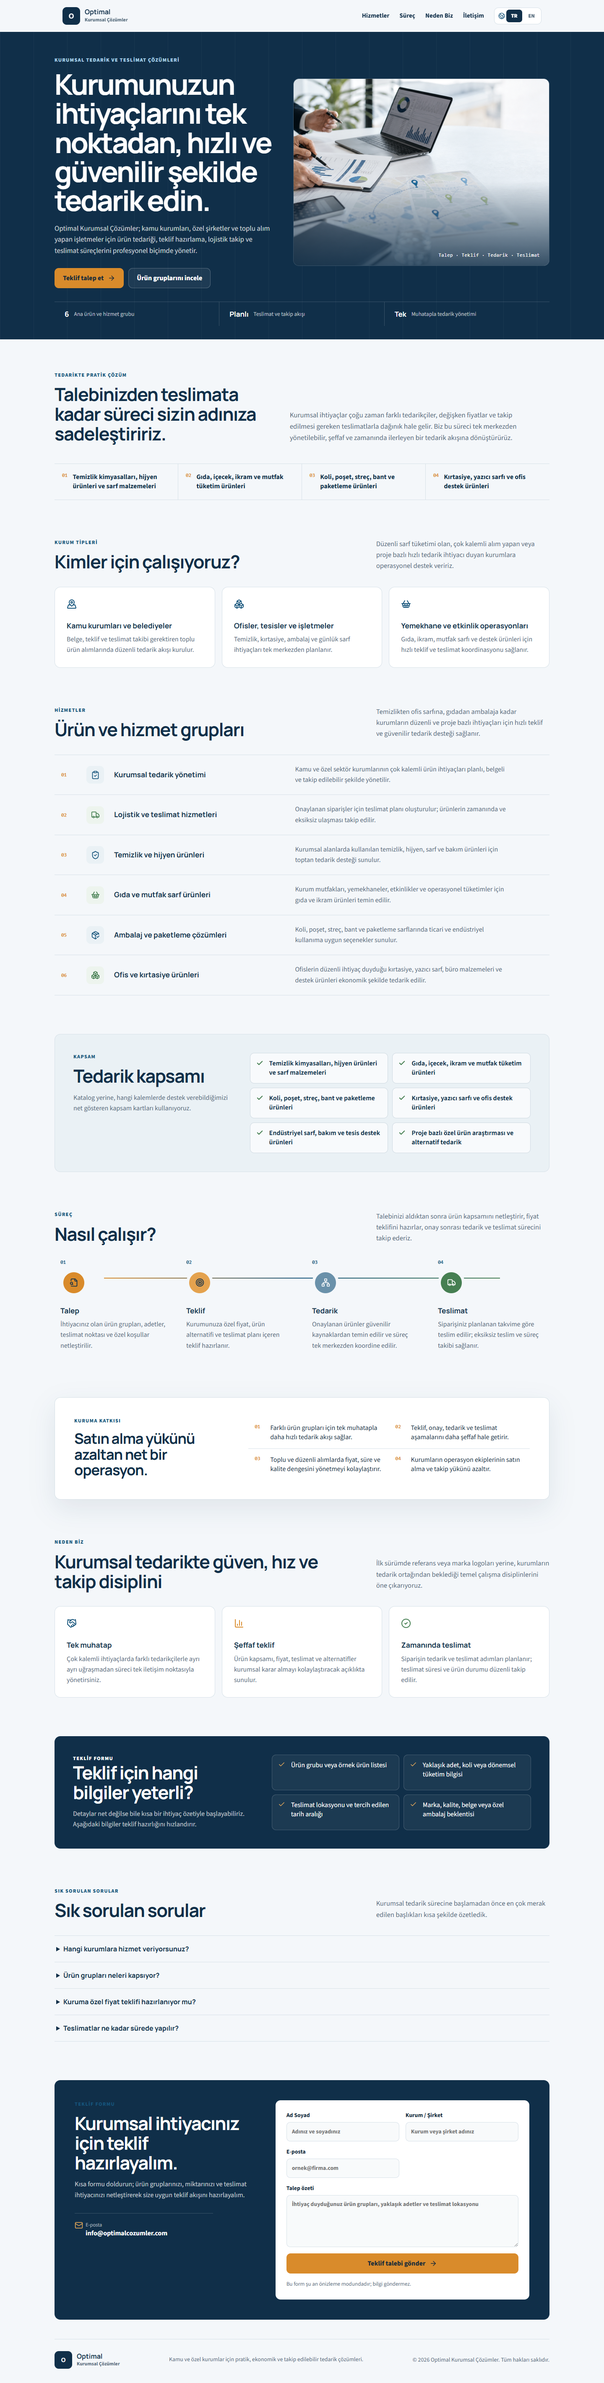
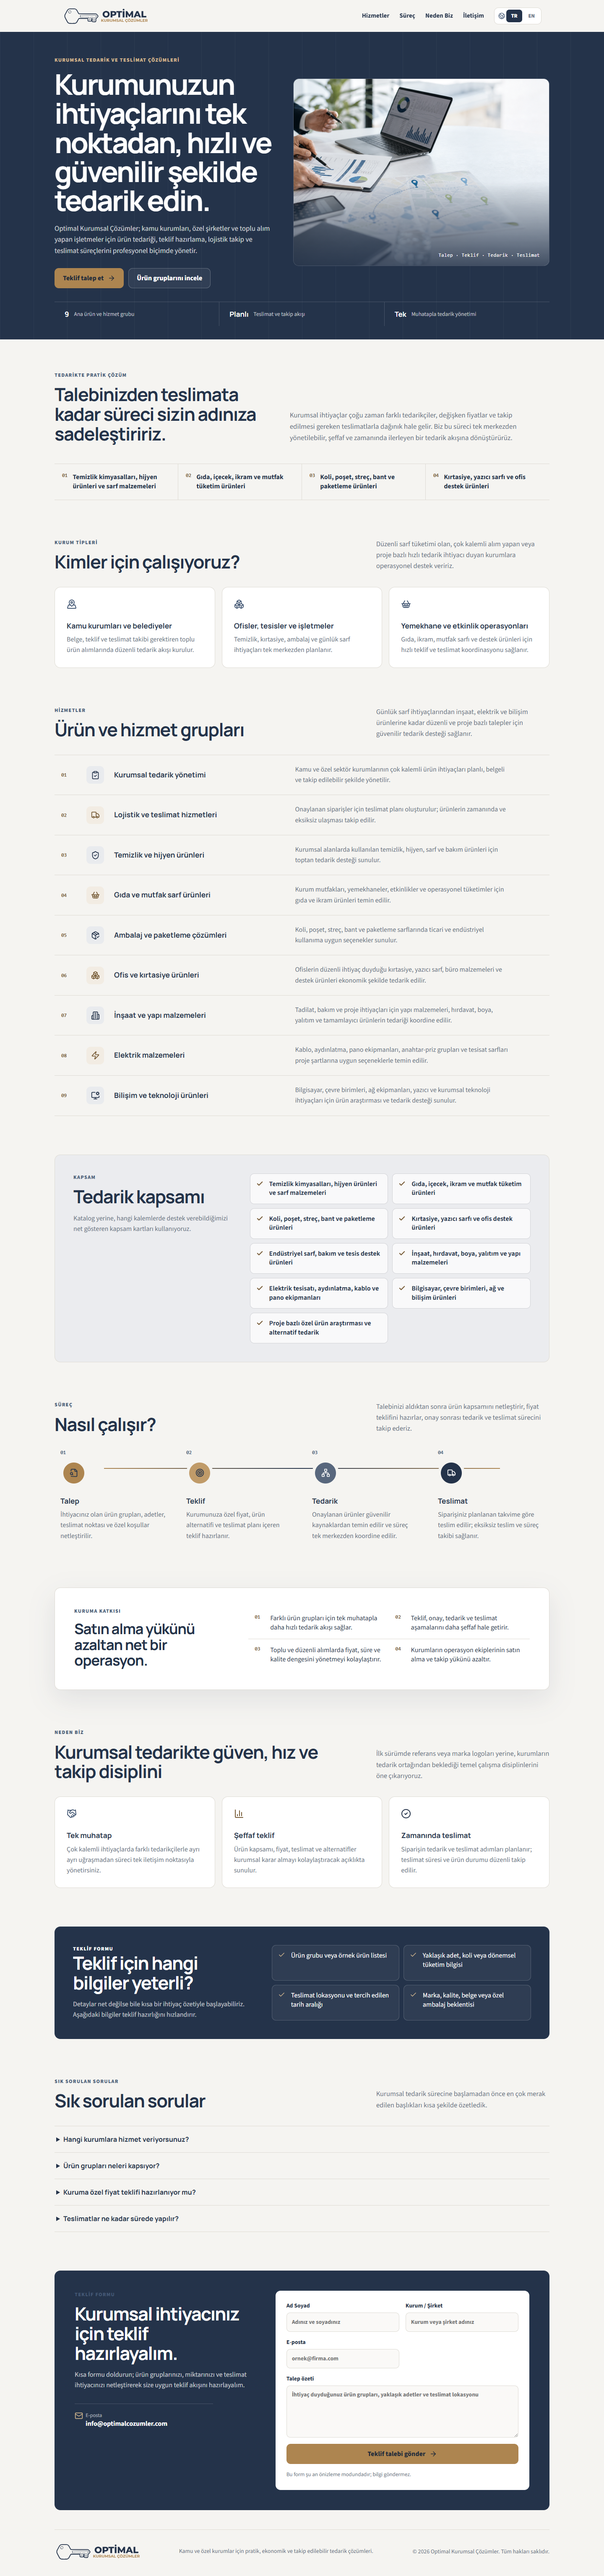
feat: initialize landing page with bilingual support, responsive layout, and scroll-triggered animations

Changed region(s): [[0.0, 0.0, 1.0, 0.997], [0.3125, 0.5297, 0.375, 0.592]]

diff --git a/src/styles.css b/src/styles.css
@@ -3,21 +3,22 @@
 
 :root {
   font-family: "Source Sans 3 Variable", sans-serif;
-  color: #172a3b;
-  background: #f4f7fa;
+  color: #263348;
+  background: #f5f4f1;
   font-synthesis: none;
   text-rendering: optimizeLegibility;
-  --navy: #102f49;
-  --blue: #15547b;
-  --amber: #d98b2b;
-  --green: #467f52;
-  --ink: #172a3b;
-  --muted: #526879;
-  --ground: #f4f7fa;
+  --navy: #24334a;
+  --blue: #465a76;
+  --amber: #ad8550;
+  --amber-dark: #765a35;
+  --green: #806b4d;
+  --ink: #263348;
+  --muted: #667083;
+  --ground: #f5f4f1;
   --surface: #ffffff;
-  --line: #d7e1e8;
+  --line: #dedbd4;
   --line-dark: rgba(255, 255, 255, 0.17);
-  --shadow: 0 22px 60px rgba(16, 47, 73, 0.09);
+  --shadow: 0 22px 60px rgba(36, 51, 74, 0.1);
   --radius: 14px;
   --page: min(1180px, calc(100% - 40px));
 }
@@ -30,12 +31,12 @@ button, a { -webkit-tap-highlight-color: transparent; }
 a { color: inherit; text-decoration: none; }
 img { display: block; max-width: 100%; }
 h1, h2, h3, p { margin-top: 0; }
-h1, h2, h3, .brand { font-family: "Manrope Variable", sans-serif; }
+h1, h2, h3 { font-family: "Manrope Variable", sans-serif; }
 h1 { margin-bottom: 20px; font-size: clamp(2.25rem, 4.7vw, 4.75rem); line-height: 1.02; letter-spacing: -0.045em; }
 h2 { margin-bottom: 16px; color: var(--navy); font-size: clamp(1.9rem, 3vw, 3.2rem); line-height: 1.08; letter-spacing: -0.035em; }
 h3 { margin-bottom: 9px; color: var(--navy); font-size: 1.08rem; line-height: 1.3; }
 p { line-height: 1.58; }
-:focus-visible { outline: 3px solid rgba(217, 139, 43, 0.7); outline-offset: 3px; }
+:focus-visible { outline: 3px solid rgba(173, 133, 80, 0.72); outline-offset: 3px; }
 #services, #process, #principles, #contact { scroll-margin-top: 104px; }
 
 .theme-flow { min-height: 100vh; }
@@ -44,15 +45,12 @@ p { line-height: 1.58; }
   display: flex; align-items: center; justify-content: space-between; gap: 24px;
   width: var(--page); min-height: 76px; padding: 12px 18px;
   border: 1px solid transparent; border-top: 0; border-radius: 0 0 var(--radius) var(--radius);
-  background: rgba(244, 247, 250, 0.96); transform: translateX(-50%);
+  background: rgba(245, 244, 241, 0.96); transform: translateX(-50%);
   transition: background 180ms ease, box-shadow 180ms ease, border-color 180ms ease;
 }
-.site-header.is-scrolled { border-color: rgba(16, 47, 73, 0.13); background: rgba(244, 247, 250, 0.985); box-shadow: 0 12px 32px rgba(16, 47, 73, 0.12); }
-.brand { display: inline-flex; align-items: center; gap: 11px; min-width: 0; }
-.brand-mark { display: grid; place-items: center; width: 42px; height: 42px; flex: 0 0 auto; border-radius: 10px; background: var(--navy); color: #fff; font-weight: 850; }
-.brand strong, .brand small { display: block; line-height: 1.08; }
-.brand strong { color: var(--navy); font-size: 1rem; }
-.brand small { margin-top: 4px; color: var(--muted); font-family: "Source Sans 3 Variable", sans-serif; font-size: 0.74rem; font-weight: 700; }
+.site-header.is-scrolled { border-color: rgba(36, 51, 74, 0.14); background: rgba(245, 244, 241, 0.985); box-shadow: 0 12px 32px rgba(36, 51, 74, 0.13); }
+.brand { display: inline-flex; align-items: center; min-width: 0; }
+.brand-logo { display: block; width: auto; height: 48px; }
 .header-actions, .site-nav, .language-switch { display: flex; align-items: center; }
 .header-actions { gap: 24px; }
 .site-nav { gap: 24px; color: var(--navy); font-size: 0.94rem; font-weight: 700; }
@@ -76,16 +74,16 @@ p { line-height: 1.58; }
 .hero-copy { position: relative; z-index: 2; grid-area: copy; max-width: 610px; }
 .hero-copy h1 { max-width: 12ch; color: #fff; }
 .eyebrow { margin-bottom: 13px; color: var(--blue); font-size: .77rem; font-weight: 850; letter-spacing: .1em; text-transform: uppercase; }
-.hero-copy .eyebrow { color: #a9d0e8; }
+.hero-copy .eyebrow { color: #d5b88f; }
 .lead { max-width: 600px; margin-bottom: 27px; color: rgba(255,255,255,.76); font-size: 1.06rem; }
 .hero-buttons { display: flex; flex-wrap: wrap; gap: 11px; }
 .button { display: inline-flex; align-items: center; justify-content: center; gap: 10px; min-height: 48px; padding: 0 19px; border: 1px solid transparent; border-radius: 10px; font-weight: 800; transition: transform 160ms ease, background 160ms ease; }
 .button:hover { transform: translateY(-1px); }
-.button.primary { background: var(--amber); color: #182a39; }
-.button.primary:hover { background: #e59a3e; }
+.button.primary { background: var(--amber); color: #1f2939; }
+.button.primary:hover { background: #bc9560; }
 .button.secondary { border-color: rgba(255,255,255,.23); background: rgba(255,255,255,.06); color: #fff; }
 .hero-media { position: relative; z-index: 1; grid-area: media; min-height: 445px; margin: 0; overflow: hidden; border: 1px solid var(--line-dark); border-radius: var(--radius); }
-.hero-media::after { position: absolute; inset: 0; background: linear-gradient(180deg, transparent 55%, rgba(16,47,73,.82)); content: ""; }
+.hero-media::after { position: absolute; inset: 0; background: linear-gradient(180deg, transparent 55%, rgba(36,51,74,.84)); content: ""; }
 .hero-media img { width: 100%; height: 445px; object-fit: cover; filter: saturate(.78) contrast(1.03); }
 .hero-media figcaption { position: absolute; right: 22px; bottom: 18px; z-index: 2; color: #fff; font-family: ui-monospace, SFMono-Regular, Consolas, monospace; font-size: .72rem; letter-spacing: .05em; }
 .hero-stats { position: relative; z-index: 2; grid-area: stats; display: grid; grid-template-columns: repeat(3, 1fr); border-top: 1px solid var(--line-dark); }
@@ -101,7 +99,7 @@ p { line-height: 1.58; }
 .supply-strip { display: grid; grid-template-columns: repeat(4, 1fr); margin-top: 48px; border-top: 1px solid var(--line); border-bottom: 1px solid var(--line); }
 .supply-strip article { display: grid; grid-template-columns: auto 1fr; gap: 12px; min-width: 0; padding: 20px 18px; border-right: 1px solid var(--line); }
 .supply-strip article:last-child { border-right: 0; }
-.supply-strip span, .card-index, .step-number, .benefit-list span { color: var(--amber); font-family: ui-monospace, SFMono-Regular, Consolas, monospace; font-size: .75rem; font-weight: 800; }
+.supply-strip span, .card-index, .step-number, .benefit-list span { color: var(--amber-dark); font-family: ui-monospace, SFMono-Regular, Consolas, monospace; font-size: .75rem; font-weight: 800; }
 .supply-strip p { margin: 0; color: var(--navy); font-weight: 700; line-height: 1.38; }
 .section { padding-top: 92px; }
 .section-heading { display: grid; grid-template-columns: minmax(0,1fr) minmax(280px,.58fr); gap: 54px; align-items: end; margin-bottom: 36px; }
@@ -115,38 +113,38 @@ p { line-height: 1.58; }
 .feature-card { display: grid; grid-template-columns: 42px 48px minmax(200px,.7fr) minmax(280px,1fr); gap: 18px; align-items: center; padding: 22px 16px; border-bottom: 1px solid var(--line); }
 .feature-card h3, .feature-card p { margin: 0; }
 .feature-card p { max-width: 65ch; color: var(--muted); }
-.icon-box { display: grid; place-items: center; width: 42px; height: 42px; border-radius: 10px; background: #eaf1f5; color: var(--blue); }
-.feature-card:nth-child(even) .icon-box { background: #edf4ee; color: var(--green); }
+.icon-box { display: grid; place-items: center; width: 42px; height: 42px; border-radius: 10px; background: #e9ebee; color: var(--navy); }
+.feature-card:nth-child(even) .icon-box { background: #f2ece3; color: var(--amber-dark); }
 .scope-panel, .benefits-band, .quote-panel, .contact-section { margin-top: 92px; border-radius: var(--radius); }
-.scope-panel { display: grid; grid-template-columns: .72fr 1.28fr; gap: 44px; padding: 44px; border: 1px solid var(--line); background: #eaf1f5; }
+.scope-panel { display: grid; grid-template-columns: .72fr 1.28fr; gap: 44px; padding: 44px; border: 1px solid var(--line); background: #ebecef; }
 .scope-copy p:last-child { margin-bottom: 0; color: var(--muted); }
 .scope-grid { display: grid; grid-template-columns: repeat(2, 1fr); gap: 10px; }
-.scope-item { display: grid; grid-template-columns: 22px 1fr; gap: 9px; align-items: start; padding: 14px; border: 1px solid #cfdae2; border-radius: 10px; background: rgba(255,255,255,.68); color: var(--navy); font-weight: 650; line-height: 1.35; }
-.scope-item svg { margin-top: 1px; color: var(--green); }
+.scope-item { display: grid; grid-template-columns: 22px 1fr; gap: 9px; align-items: start; padding: 14px; border: 1px solid #d2d3d7; border-radius: 10px; background: rgba(255,255,255,.7); color: var(--navy); font-weight: 650; line-height: 1.35; }
+.scope-item svg { margin-top: 1px; color: var(--amber-dark); }
 
 .process-section { position: relative; }
 .process-list { position: relative; display: grid; grid-template-columns: repeat(4, 1fr); gap: 20px; }
-.process-list::before { position: absolute; top: 44px; right: 10%; left: 10%; height: 2px; background: linear-gradient(90deg, var(--amber), var(--blue), var(--green)); content: ""; }
+.process-list::before { position: absolute; top: 44px; right: 10%; left: 10%; height: 2px; background: linear-gradient(90deg, var(--amber), var(--navy), var(--amber)); content: ""; }
 .process-item { position: relative; z-index: 1; padding: 0 14px 18px; }
 .step-number { display: block; margin-bottom: 10px; color: var(--blue); }
 .process-node { display: grid; place-items: center; width: 50px; height: 50px; margin-bottom: 24px; border: 7px solid var(--ground); border-radius: 50%; background: var(--amber); color: var(--navy); box-sizing: content-box; }
-.process-item:nth-child(2) .process-node { background: #e4a24e; }
-.process-item:nth-child(3) .process-node { background: #6a91aa; color: #fff; }
-.process-item:nth-child(4) .process-node { background: var(--green); color: #fff; }
+.process-item:nth-child(2) .process-node { background: #c09b69; }
+.process-item:nth-child(3) .process-node { background: #58677d; color: #fff; }
+.process-item:nth-child(4) .process-node { background: var(--navy); color: #fff; }
 .process-item p { margin: 0; color: var(--muted); }
 .benefits-band { display: grid; grid-template-columns: .7fr 1.3fr; gap: 54px; padding: 46px; background: #fff; border: 1px solid var(--line); box-shadow: var(--shadow); }
 .benefits-band h2 { margin-bottom: 0; font-size: clamp(1.7rem,2.4vw,2.65rem); }
 .benefit-list { display: grid; grid-template-columns: repeat(2,1fr); gap: 0; margin: 0; padding: 0; list-style: none; }
 .benefit-list li { display: grid; grid-template-columns: 28px 1fr; gap: 9px; padding: 15px; border-top: 1px solid var(--line); color: var(--ink); line-height: 1.4; }
 .benefit-list li:nth-child(-n+2) { border-top: 0; }
-.principles-grid .principle-card:nth-child(2) svg { color: var(--amber); }
-.principles-grid .principle-card:nth-child(3) svg { color: var(--green); }
+.principles-grid .principle-card:nth-child(2) svg { color: var(--amber-dark); }
+.principles-grid .principle-card:nth-child(3) svg { color: var(--navy); }
 .quote-panel { display: grid; grid-template-columns: .82fr 1.18fr; gap: 44px; padding: 44px; background: var(--navy); color: #fff; }
 .quote-panel h2, .quote-panel .eyebrow { color: #fff; }
 .quote-panel p { margin-bottom: 0; color: rgba(255,255,255,.7); }
 .quote-list { display: grid; grid-template-columns: repeat(2,1fr); gap: 10px; margin: 0; padding: 0; list-style: none; }
 .quote-list li { display: grid; grid-template-columns: 22px 1fr; gap: 9px; padding: 14px; border: 1px solid var(--line-dark); border-radius: 10px; background: rgba(255,255,255,.05); line-height: 1.35; }
-.quote-list svg { color: #e9aa59; }
+.quote-list svg { color: #d5b88f; }
 .faq-list { border-top: 1px solid var(--line); }
 .faq-item { border-bottom: 1px solid var(--line); background: transparent; }
 .faq-item summary { padding: 20px 42px 20px 4px; color: var(--navy); font-family: "Manrope Variable",sans-serif; font-weight: 750; cursor: pointer; }
@@ -155,16 +153,16 @@ p { line-height: 1.58; }
 .contact-copy h2 { color: #fff; }
 .contact-copy > p:not(.eyebrow) { max-width: 52ch; color: rgba(255,255,255,.72); }
 .contact-detail { display: grid; grid-template-columns: 26px 1fr; margin-top: 30px; max-width: 330px; padding-top: 18px; border-top: 1px solid var(--line-dark); }
-.contact-detail svg { grid-row: 1 / 3; color: #e9aa59; }
+.contact-detail svg { grid-row: 1 / 3; color: #d5b88f; }
 .contact-detail span { color: rgba(255,255,255,.58); font-size: .78rem; }
 .contact-detail strong { overflow-wrap: anywhere; }
 .contact-form { display: grid; grid-template-columns: repeat(2,1fr); gap: 15px; padding: 26px; border-radius: 12px; background: #fff; color: var(--ink); }
 .contact-form label { display: grid; gap: 6px; font-size: .86rem; font-weight: 750; }
 .contact-form label:nth-of-type(4), .form-button, .form-note { grid-column: 1 / -1; }
-.contact-form input, .contact-form textarea { width: 100%; border: 1px solid var(--line); border-radius: 9px; background: #f8fafb; color: var(--ink); padding: 11px 12px; }
+.contact-form input, .contact-form textarea { width: 100%; border: 1px solid var(--line); border-radius: 9px; background: #faf9f7; color: var(--ink); padding: 11px 12px; }
 .contact-form input { min-height: 46px; }
 .contact-form textarea { min-height: 116px; resize: vertical; }
-.contact-form input:focus, .contact-form textarea:focus { border-color: var(--blue); outline: 3px solid rgba(21,84,123,.12); }
+.contact-form input:focus, .contact-form textarea:focus { border-color: var(--navy); outline: 3px solid rgba(36,51,74,.12); }
 .form-button { border: 0; cursor: pointer; }
 .form-note { margin: 0; color: var(--muted); font-size: .82rem; }
 .form-note.is-success { color: var(--green); font-weight: 750; }
@@ -228,7 +226,7 @@ p { line-height: 1.58; }
   :root { --page: calc(100% - 24px); }
   h1 { font-size: clamp(2.15rem,11vw,3.25rem); }
   h2 { font-size: clamp(1.8rem,9vw,2.45rem); }
-  .brand small { display: none; }
+  .brand-logo { height: 42px; }
   .hero-section { padding-top: 42px; }
   .hero-copy h1 { max-width: 13ch; font-size: clamp(2.2rem,11.5vw,3.2rem); overflow-wrap: break-word; }
   .hero-buttons { display: grid; }

diff --git a/src/content.ts b/src/content.ts
@@ -1,18 +1,21 @@
 import {
   BarChart3,
   Boxes,
+  Building2,
   CheckCircle2,
   ClipboardCheck,
   FileSearch,
   Handshake,
   Mail,
   MapPinned,
+  MonitorCog,
   Network,
   PackageCheck,
   ShieldCheck,
   ShoppingBasket,
   Target,
   Truck,
+  Zap,
 } from "lucide-react";
 
 export type Language = "tr" | "en";
@@ -38,7 +41,7 @@ export const content = {
       primary: "Teklif talep et",
       secondary: "Ürün gruplarını incele",
       stats: [
-        { value: "6", label: "Ana ürün ve hizmet grubu" },
+        { value: "9", label: "Ana ürün ve hizmet grubu" },
         { value: "Planlı", label: "Teslimat ve takip akışı" },
         { value: "Tek", label: "Muhatapla tedarik yönetimi" },
       ],
@@ -74,7 +77,7 @@ export const content = {
     services: {
       title: "Ürün ve hizmet grupları",
       copy:
-        "Temizlikten ofis sarfına, gıdadan ambalaja kadar kurumların düzenli ve proje bazlı ihtiyaçları için hızlı teklif ve güvenilir tedarik desteği sağlanır.",
+        "Günlük sarf ihtiyaçlarından inşaat, elektrik ve bilişim ürünlerine kadar düzenli ve proje bazlı talepler için güvenilir tedarik desteği sağlanır.",
       items: [
         {
           icon: ClipboardCheck,
@@ -106,6 +109,21 @@ export const content = {
           title: "Ofis ve kırtasiye ürünleri",
           copy: "Ofislerin düzenli ihtiyaç duyduğu kırtasiye, yazıcı sarf, büro malzemeleri ve destek ürünleri ekonomik şekilde tedarik edilir.",
         },
+        {
+          icon: Building2,
+          title: "İnşaat ve yapı malzemeleri",
+          copy: "Tadilat, bakım ve proje ihtiyaçları için yapı malzemeleri, hırdavat, boya, yalıtım ve tamamlayıcı ürünlerin tedariği koordine edilir.",
+        },
+        {
+          icon: Zap,
+          title: "Elektrik malzemeleri",
+          copy: "Kablo, aydınlatma, pano ekipmanları, anahtar-priz grupları ve tesisat sarfları proje şartlarına uygun seçeneklerle temin edilir.",
+        },
+        {
+          icon: MonitorCog,
+          title: "Bilişim ve teknoloji ürünleri",
+          copy: "Bilgisayar, çevre birimleri, ağ ekipmanları, yazıcı ve kurumsal teknoloji ihtiyaçları için ürün araştırması ve tedarik desteği sunulur.",
+        },
       ],
     },
     supplyScope: {
@@ -118,6 +136,9 @@ export const content = {
         "Koli, poşet, streç, bant ve paketleme ürünleri",
         "Kırtasiye, yazıcı sarfı ve ofis destek ürünleri",
         "Endüstriyel sarf, bakım ve tesis destek ürünleri",
+        "İnşaat, hırdavat, boya, yalıtım ve yapı malzemeleri",
+        "Elektrik tesisatı, aydınlatma, kablo ve pano ekipmanları",
+        "Bilgisayar, çevre birimleri, ağ ve bilişim ürünleri",
         "Proje bazlı özel ürün araştırması ve alternatif tedarik",
       ],
     },
@@ -252,7 +273,7 @@ export const content = {
       primary: "Request a quote",
       secondary: "Explore product groups",
       stats: [
-        { value: "6", label: "Main product and service groups" },
+        { value: "9", label: "Main product and service groups" },
         { value: "Planned", label: "Delivery and tracking flow" },
         { value: "One", label: "Contact for supply management" },
       ],
@@ -288,7 +309,7 @@ export const content = {
     services: {
       title: "Product and service groups",
       copy:
-        "From cleaning to office supplies, from food to packaging, we provide fast quotation and reliable sourcing support for regular and project-based institutional needs.",
+        "From daily consumables to construction, electrical, and IT products, we provide reliable sourcing support for regular and project-based institutional needs.",
       items: [
         {
           icon: ClipboardCheck,
@@ -320,6 +341,21 @@ export const content = {
           title: "Office and stationery products",
           copy: "Stationery, printer consumables, office materials, and support products are sourced economically for regular office needs.",
         },
+        {
+          icon: Building2,
+          title: "Construction and building materials",
+          copy: "Building materials, hardware, paint, insulation, and complementary products are coordinated for renovation, maintenance, and project needs.",
+        },
+        {
+          icon: Zap,
+          title: "Electrical supplies",
+          copy: "Cables, lighting, panel equipment, switches, sockets, and installation consumables are sourced to match project requirements.",
+        },
+        {
+          icon: MonitorCog,
+          title: "IT and technology products",
+          copy: "Product research and sourcing support is provided for computers, peripherals, network equipment, printers, and institutional technology needs.",
+        },
       ],
     },
     supplyScope: {
@@ -332,6 +368,9 @@ export const content = {
         "Boxes, bags, stretch film, tape, and packaging products",
         "Stationery, printer consumables, and office support products",
         "Industrial consumables, maintenance, and facility support products",
+        "Construction materials, hardware, paint, and insulation products",
+        "Electrical installation, lighting, cable, and panel equipment",
+        "Computers, peripherals, network, and IT products",
         "Project-based product research and alternative sourcing",
       ],
     },

diff --git a/src/App.tsx b/src/App.tsx
@@ -1,6 +1,7 @@
 import { type FormEvent, useEffect, useMemo, useState } from "react";
 import { ArrowRight, Check, Globe2, Menu, X } from "lucide-react";
 import heroImage from "./assets/procurement-hero.png";
+import logo from "./assets/logo.svg";
 import { content, languages, type Language } from "./content";
 
 const sectionIds = {
@@ -85,11 +86,7 @@ export function App() {
     <div className="site-shell theme-flow">
       <header className={`site-header ${isScrolled ? "is-scrolled" : ""}`}>
         <a className="brand" href="#top" aria-label="Optimal Kurumsal Çözümler">
-          <span className="brand-mark" aria-hidden="true">O</span>
-          <span>
-            <strong>Optimal</strong>
-            <small>Kurumsal Çözümler</small>
-          </span>
+          <img className="brand-logo" src={logo} alt="" />
         </a>
 
         <button
@@ -281,7 +278,9 @@ export function App() {
       </main>
 
       <footer className="site-footer">
-        <div className="brand footer-brand"><span className="brand-mark" aria-hidden="true">O</span><span><strong>Optimal</strong><small>Kurumsal Çözümler</small></span></div>
+        <a className="brand footer-brand" href="#top" aria-label="Optimal Kurumsal Çözümler">
+          <img className="brand-logo" src={logo} alt="" />
+        </a>
         <p>{t.footer.copy}</p>
         <span>© {year} Optimal Kurumsal Çözümler. {t.footer.rights}</span>
       </footer>
